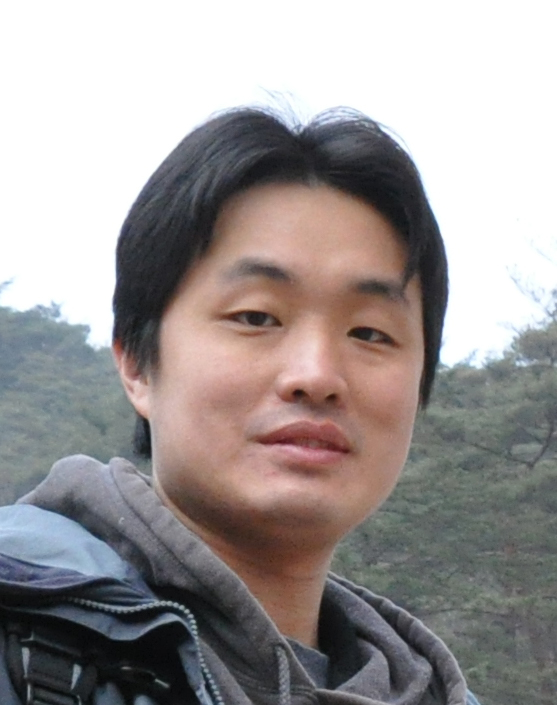
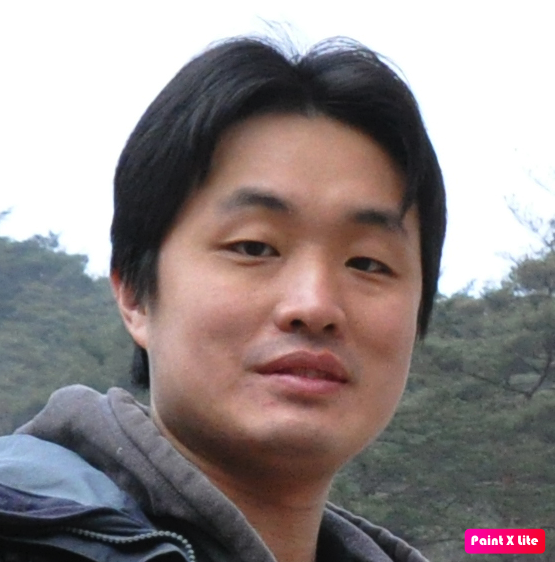
Make a round profile image

diff --git a/index.html b/index.html
@@ -813,7 +813,8 @@ break-word'>
  <tr style='mso-yfti-irow:0;mso-yfti-firstrow:yes'>
   <td width="20%" rowspan=5 style='width:20.0%;padding:.75pt .75pt .75pt .75pt'>
   <p class=MsoNormal style='mso-margin-top-alt:auto;mso-margin-bottom-alt:auto'><span
-  style='mso-no-proof:yes'><img width=250 id="_x0000_i1025"
+  style='mso-no-proof:yes'><img width=250; height=250;
+  object-fit:cover; id="_x0000_i1025"
   src="images/me_korea.jpg" alt=Avatar></span></p>
   </td>
   <td width="80%" style='width:80.0%;padding:.75pt .75pt .75pt .75pt'>
